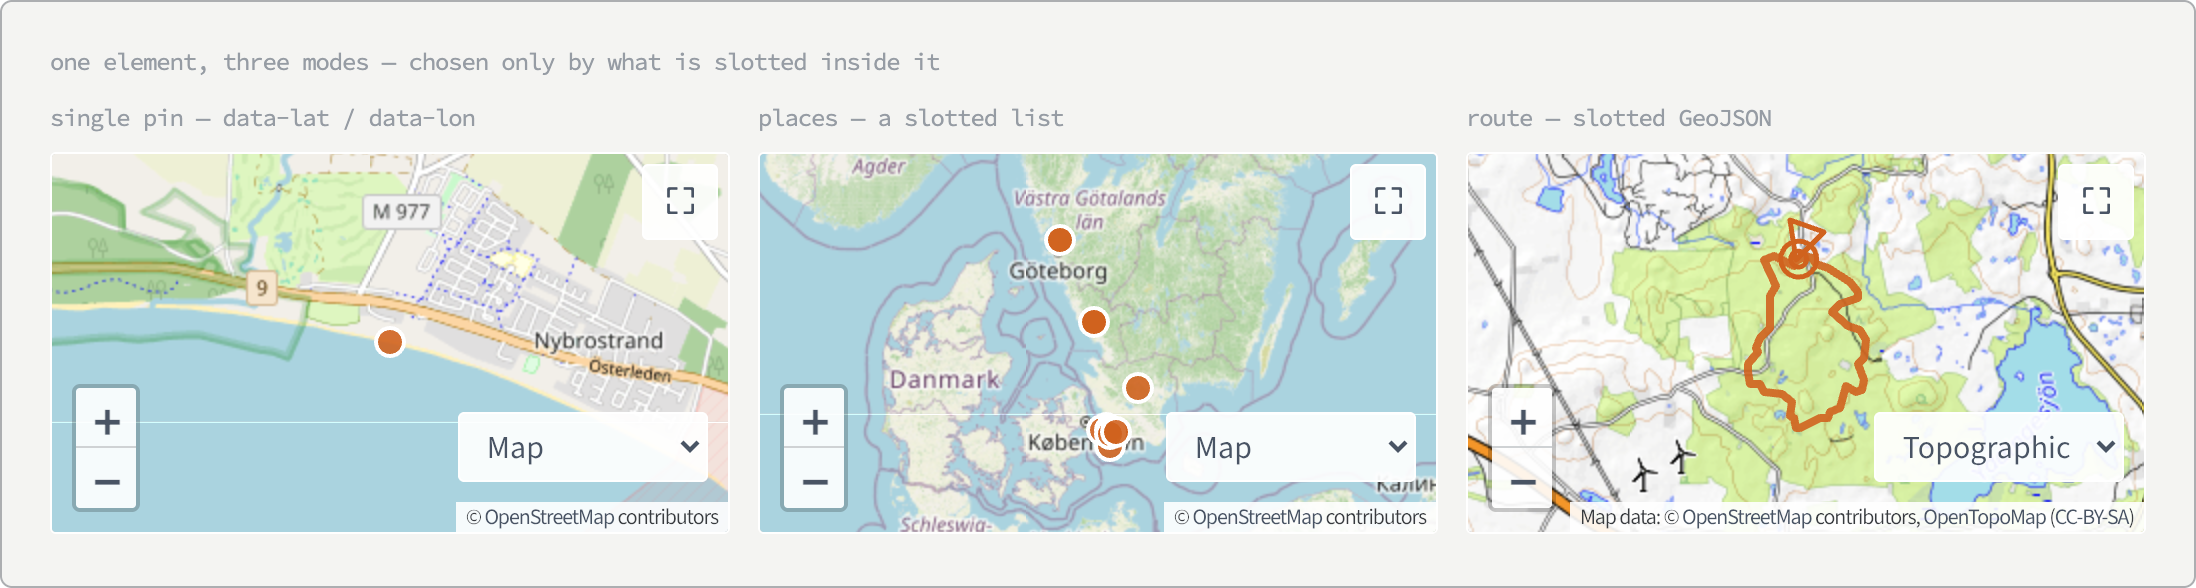
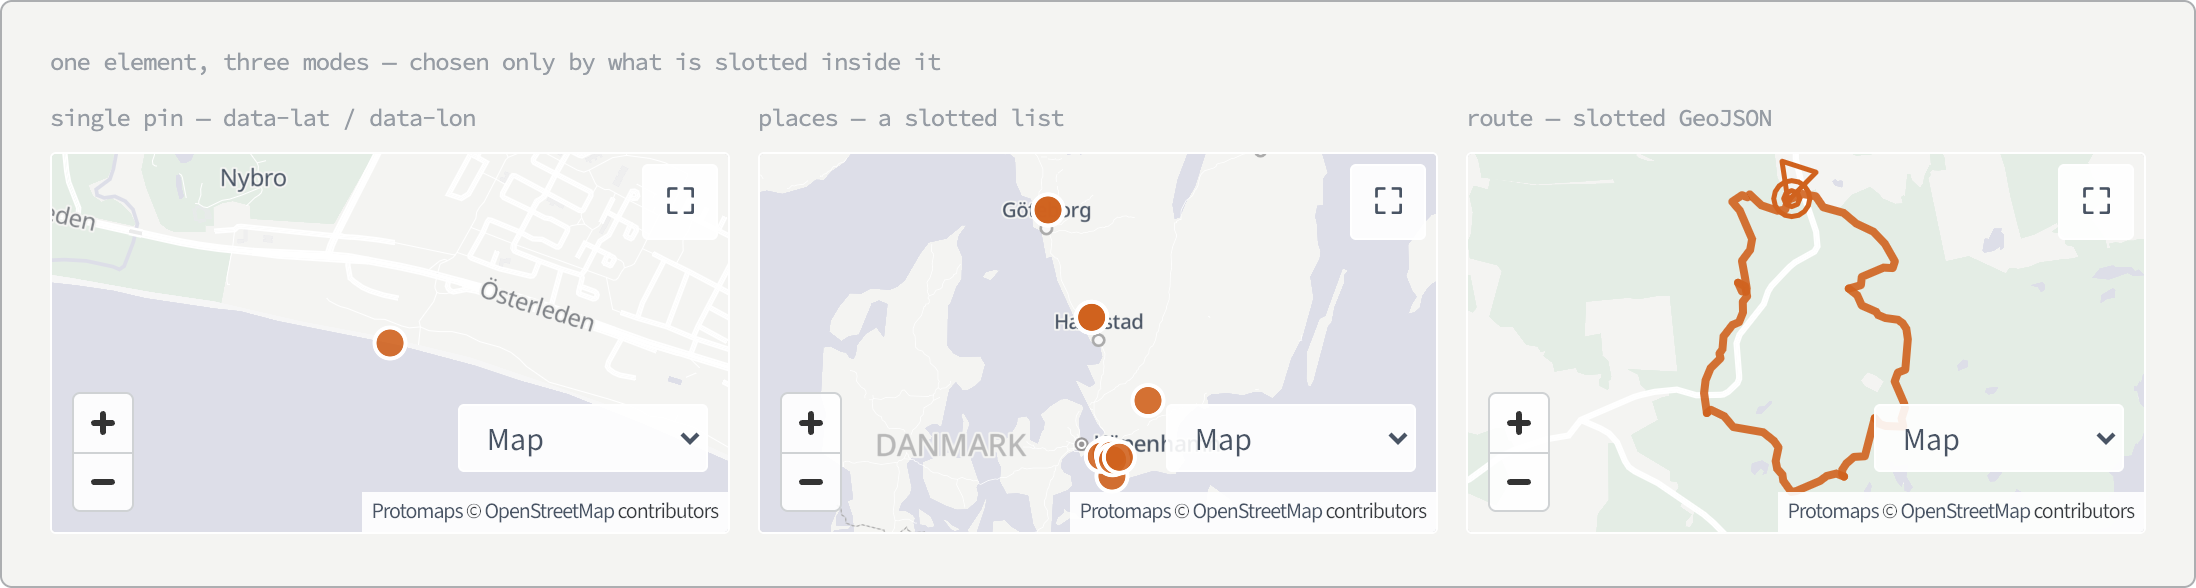
Wiki: the place map's two figures re-shot on MapLibre and our own tiles; mockups are served over http so MapLibre can load

diff --git a/src/wiki/_sources/place-map.html b/src/wiki/_sources/place-map.html
@@ -4,10 +4,10 @@
 <meta charset="utf-8">
 <title>The place map — wiki mockup</title>
 
-<!-- ⚠ Three build artifacts: the site bundle, the component's local bundle, and Leaflet's own stylesheet. Run `npm start` or a build once if any is missing. -->
+<!-- ⚠ Three build artifacts: the site bundle, the component's local bundle, and MapLibre's own stylesheet. Run `npm start` or a build once if any is missing. Shoot it with `npm run mockups`, which serves it over http. -->
 <link rel="stylesheet" href="../../_includes/css/global.css">
 <link rel="stylesheet" href="../../_includes/css/place-map.css">
-<link rel="stylesheet" href="../../../dist/assets/components/leaflet.css">
+<link rel="stylesheet" href="../../../dist/assets/components/maplibre-gl.css">
 
 <style>
   @font-face { font-family: 'Source Sans'; font-weight: 100 1000; src: url('../../assets/fonts/source-sans/source-sans.woff2') format('woff2'); }
@@ -81,27 +81,27 @@
 </div>
 
 <script>
-  // Leaflet fetches its tiles over the network and the route intro animates the line in, so the shooters must wait for both rather than race networkidle0.
+  // MapLibre fetches its tiles over the network, so the shooters must wait for them rather than race networkidle0.
   window.__mockupReady = false;
+  // Reports reduced motion to the component only, so the route is drawn at once instead of over a 7-second intro.
+  const realMatchMedia = window.matchMedia.bind(window);
+  window.matchMedia = q => (q.includes('prefers-reduced-motion') ? { ...realMatchMedia(q), matches: true } : realMatchMedia(q));
 </script>
-<!-- The real component, bundled with Leaflet by esbuild — this mockup renders the shipped element, not a drawing of it.
-     ⚠ No type="module": a FETCHED module script is blocked from file:// as a cross-origin request (origin null). The esbuild bundle is an IIFE with no imports, so a classic script loads it fine. -->
+<!-- The real component, bundled with MapLibre by esbuild — this mockup renders the shipped element, not a drawing of it. -->
 <script src="../../../dist/assets/scripts/components/place-map.js"></script>
 <script type="module">
   const wait = ms => new Promise(r => setTimeout(r, ms));
-  const settled = () => Promise.all(document.getAnimations().map(a => a.finished.catch(() => {})));
-
-  await wait(1800);
-  await settled();
+  const maps = [...document.querySelectorAll('place-map')];
+  // Each canvas drops data-map-loading once its first tiles are drawn.
+  while (maps.some(m => !m.mapObj || m.querySelector('[data-map-loading]'))) await wait(100);
 
   // Zooming is just operating the real map, the way a reader would — the symbols are geographic shapes, so they grow with it rather than staying a fixed screen size.
   const zoomed = document.querySelector('[data-zoom-to]');
   const [lat, lon, z] = zoomed.dataset.zoomTo.split(',').map(Number);
-  zoomed.mapObj.map.setView([lat, lon], z);
-
-  // A second settle: the new zoom level fetches a fresh set of tiles.
-  await wait(2500);
-  await settled();
+  const { map } = zoomed.mapObj;
+  const idle = new Promise(r => map.once('idle', r));
+  map.jumpTo({ center: [lon, lat], zoom: z });
+  await idle; // the new zoom level fetches a fresh set of tiles
   requestAnimationFrame(() => requestAnimationFrame(() => (window.__mockupReady = true)));
 </script>
 

diff --git a/src/wiki/_sources/shoot-mockups.js b/src/wiki/_sources/shoot-mockups.js
@@ -1,17 +1,21 @@
-// Shoots every [data-shot] element in this folder's mockups to src/assets/images/wiki/<data-shot>.png. Run: npm run mockups
+// Shoots every [data-shot] element in this folder's mockups to src/assets/images/wiki/<data-shot>.png. Run: npm run mockups (or `npm run mockups -- place-map` for the mockups whose filename contains that)
 import { fileURLToPath } from 'node:url';
 import { readdirSync } from 'node:fs';
 import path from 'node:path';
 import puppeteer from 'puppeteer';
+import { serveMockups, launchArgs } from './serve-mockups.js';
 
 const here = path.dirname(fileURLToPath(import.meta.url));
 const outputDir = path.resolve(here, '../../assets/images/wiki');
-const mockups = readdirSync(here).filter(f => f.endsWith('.html')).sort();
+const only = process.argv[2] || '';
+const mockups = readdirSync(here).filter(f => f.endsWith('.html') && f.includes(only)).sort();
+
+const { base, server } = await serveMockups(here);
 
 // puppeteer arrives transitively under pa11y-ci and hunts for its own pinned build — point it at an installed Chrome, same as meta.tests.pa11y.chromePath does.
 const chromePath = process.env.PA11Y_CHROME || '/Applications/Google Chrome.app/Contents/MacOS/Google Chrome';
 
-const browser = await puppeteer.launch({ executablePath: chromePath, headless: 'new' });
+const browser = await puppeteer.launch({ executablePath: chromePath, headless: 'new', args: launchArgs });
 const page = await browser.newPage();
 // ⚠ deviceScaleFactor 2 is load-bearing: a wiki page declares each shot at its full pixel size and lets CSS scale it down, so a 1x shot renders soft.
 await page.setViewport({ width: 1400, height: 1400, deviceScaleFactor: 2 });
@@ -19,9 +23,9 @@ await page.setViewport({ width: 1400, height: 1400, deviceScaleFactor: 2 });
 const sizes = [];
 
 for (const file of mockups) {
-  await page.goto(`file://${path.join(here, file)}`, { waitUntil: 'networkidle0' });
+  await page.goto(`${base}/${file}`, { waitUntil: 'networkidle0' });
   // A mockup that freezes an animation sets window.__mockupReady = false up front and true once it has settled; one that does not is ready as soon as it loads.
-  await page.waitForFunction(() => window.__mockupReady !== false, { timeout: 10000 });
+  await page.waitForFunction(() => window.__mockupReady !== false, { timeout: 30000 });
 
   // The mockup's own ground and drop shadows are dropped so each shot sits on the wiki page itself, in either theme.
   await page.evaluate(() => {
@@ -45,6 +49,7 @@ for (const file of mockups) {
 }
 
 await browser.close();
+server.close();
 console.log(`Wrote ${sizes.length} shots to ${outputDir}:`);
 sizes.forEach(s => console.log(`  ${s}`));
 console.log('⚠ Those are the intrinsic sizes — they must be the width/height on each <img>, or eleventy-img ships a soft image.');

diff --git a/src/wiki/_sources/check-mockups.js b/src/wiki/_sources/check-mockups.js
@@ -4,20 +4,22 @@ import { readdirSync } from 'node:fs';
 import { createHash } from 'node:crypto';
 import path from 'node:path';
 import puppeteer from 'puppeteer';
+import { serveMockups, launchArgs } from './serve-mockups.js';
 
 const here = path.dirname(fileURLToPath(import.meta.url));
 const chromePath = process.env.PA11Y_CHROME || '/Applications/Google Chrome.app/Contents/MacOS/Google Chrome';
 
-const browser = await puppeteer.launch({ executablePath: chromePath, headless: 'new' });
+const { base, server } = await serveMockups(here);
+const browser = await puppeteer.launch({ executablePath: chromePath, headless: 'new', args: launchArgs });
 const page = await browser.newPage();
 await page.setViewport({ width: 1400, height: 1400, deviceScaleFactor: 2 });
 
 let failures = 0;
 
 for (const file of readdirSync(here).filter(f => f.endsWith('.html')).sort()) {
-  await page.goto(`file://${path.join(here, file)}`, { waitUntil: 'networkidle0' });
+  await page.goto(`${base}/${file}`, { waitUntil: 'networkidle0' });
   // A mockup that freezes an animation sets window.__mockupReady = false up front and true once it has settled; one that does not is ready as soon as it loads.
-  await page.waitForFunction(() => window.__mockupReady !== false, { timeout: 10000 });
+  await page.waitForFunction(() => window.__mockupReady !== false, { timeout: 30000 });
 
   // ⚠ The pair is compared as PIXELS, not as text: the wrapping specimens differ in line breaks, but border width, a focus ring and a syntax color do not move a single word.
   // Every frame, not just the top document — a mockup that needs real viewport widths draws its sides in iframes, and their elements are unreachable from the top document.
@@ -41,6 +43,7 @@ for (const file of readdirSync(here).filter(f => f.endsWith('.html')).sort()) {
 }
 
 await browser.close();
+server.close();
 if (failures) {
   console.error(`\n${failures} comparison(s) render identically. Widen the sweep or change what varies — see the ⚠ on the wiki page.`);
   process.exit(1);

diff --git a/src/wiki/_sources/serve-mockups.js b/src/wiki/_sources/serve-mockups.js
@@ -1,0 +1,23 @@
+// Serves the mockups over http for both shooters. MapLibre builds absolute URLs from location.origin ("null" on file://), and the tile file needs a real origin. /assets/ maps to dist/ the way the site serves it.
+import { readFile } from 'node:fs';
+import { createServer } from 'node:http';
+import path from 'node:path';
+
+// ⚠ R2's CORS policy only admits johanedlund.se and localhost:8080, so the random port needs web security off to read the tile file.
+export const launchArgs = ['--disable-web-security', '--enable-unsafe-swiftshader'];
+
+const types = { '.html': 'text/html', '.css': 'text/css', '.js': 'text/javascript', '.json': 'application/json', '.png': 'image/png', '.svg': 'image/svg+xml', '.woff2': 'font/woff2', '.pbf': 'application/x-protobuf' };
+
+export async function serveMockups(here) {
+  const root = path.resolve(here, '../../..');
+  const server = createServer((req, res) => {
+    const url = decodeURIComponent(req.url.split('?')[0]);
+    const file = path.join(root, url.startsWith('/assets/') ? 'dist' : '', url);
+    readFile(file, (err, data) => {
+      res.writeHead(err ? 404 : 200, { 'content-type': types[path.extname(file)] || 'application/octet-stream' });
+      res.end(data);
+    });
+  });
+  await new Promise(r => server.listen(0, '127.0.0.1', r));
+  return { server, base: `http://127.0.0.1:${server.address().port}/${path.relative(root, here)}` };
+}

diff --git a/src/wiki/The place map.md b/src/wiki/The place map.md
@@ -30,8 +30,8 @@ else this.initSinglePin();
 - **Route** (activity pages) — a slotted `<script type="application/json" data-route>` holding a GeoJSON `LineString`. This is the newest mode and the rest of this page is about it.
 
 <figure class="feature" data-wiki-mockup>
-  <img eleventy:formats="webp,png" src="/assets/images/wiki/place-map-modes.png" alt="Three maps side by side. The first has a single orange dot on a coastal town. The second is zoomed out over southern Scandinavia with a scatter of orange dots. The third is a forest map carrying an orange route line with its start triangle and finish circles." width="2196" height="588">
-  <figcaption>The same element three times, told apart only by what is slotted inside it. ⚠ Captured with the old Leaflet map and OpenStreetMap tiles, before the move to jedee's own tiles.</figcaption>
+  <img eleventy:formats="webp,png" src="/assets/images/wiki/place-map-modes.png" alt="Three maps side by side. The first has a single orange dot on a coastal town. The second is zoomed out over the Swedish west coast and Denmark with a scatter of orange dots. The third is a pale green forest map carrying an orange route line with its start triangle and finish circles." width="2196" height="588">
+  <figcaption>The same element three times, told apart only by what is slotted inside it.</figcaption>
 </figure>
 
 ### A recorded route as the third mode
@@ -71,11 +71,11 @@ The start and finish are the standard **orienteering course symbols** — a tria
 The start triangle's apex is pinned exactly on the first point and the body trails back along the reverse of the travel direction. ⚠ The heading is measured to the first track point **at least ~25 m out**, not the next GPS fix — the opening fixes cluster on the spot and a two-point bearing there is pure noise, so the triangle would point a random way. The shapes are hollow and share the line's color, the site's accent orange. Orienteering overprint is purple, and a purple was tried — but the line has to read over several different tile sets, and it vanished on some of them; the accent orange reads on all of them. There's deliberately **no halo**. None are interactive, since the map isn't the screen-reader path here.
 
 <figure class="popout" data-wiki-mockup>
-  <img eleventy:formats="webp,png" src="/assets/images/wiki/place-map-route-symbols.png" alt="A topographic map of forest with an orange route line running through it. Where the line begins, a hollow orange triangle with its apex on the track and its body trailing back; a few metres away, two hollow concentric orange circles marking the finish." width="1500" height="946">
-  <figcaption>The two orienteering symbols, zoomed in — the start and finish are about 25 metres apart on this course. Both are geographic shapes, so zooming grew them along with the line rather than leaving them at a fixed screen size. ⚠ Captured with the old Leaflet map.</figcaption>
+  <img eleventy:formats="webp,png" src="/assets/images/wiki/place-map-route-symbols.png" alt="A pale green map of park paths with an orange route line running through it. Where the line begins, a hollow orange triangle with its apex on the track and its body trailing back; a few metres away, two hollow concentric orange circles marking the finish." width="1500" height="946">
+  <figcaption>The two orienteering symbols, zoomed in — the start and finish are about 25 metres apart on this course. Both are geographic shapes, so zooming grew them along with the line rather than leaving them at a fixed screen size.</figcaption>
 </figure>
 
-On first paint a short intro sequences the pieces: the canvas fades up, the start triangle fades in, the line draws itself start-to-finish, and the finish is revealed only once the line reaches it — all gated behind `prefers-reduced-motion`, so reduced-motion visitors just get the finished map. A canvas map has no SVG path to animate with `stroke-dashoffset`, so the draw is a **`line-gradient`** (which needs `lineMetrics: true` on the source): a `step` at the drawn fraction of the line, solid before it and transparent after, moved forward every animation frame. ⚠ A theme flip mid-draw rebuilds the style, and `setPaintProperty` throws "Style is not done loading" until it's back — the loop skips those frames, and keeps the progress in component state so the rebuilt style carries it.
+On first paint a short intro sequences the pieces: while the tiles load the empty box pulses softly, and once MapLibre first reports `idle` the canvas fades up (`[data-map-loading]` in `place-map.css`), then the start triangle fades in, the line draws itself start-to-finish, and the finish is revealed only once the line reaches it — all gated behind `prefers-reduced-motion`, so reduced-motion visitors just get the finished map. A canvas map has no SVG path to animate with `stroke-dashoffset`, so the draw is a **`line-gradient`** (which needs `lineMetrics: true` on the source): a `step` at the drawn fraction of the line, solid before it and transparent after, moved forward every animation frame. ⚠ A theme flip mid-draw rebuilds the style, and `setPaintProperty` throws "Style is not done loading" until it's back — the loop skips those frames, and keeps the progress in component state so the rebuilt style carries it.
 
 The no-JS answer for a route is the honest one: no map, but the stats and the **"View on Strava"** link below carry the route. A blank or broken map is never shown — malformed JSON or too few points also just leaves the page mapless with the Strava link standing. Route lines live on the [[The activities archive|activities archive]] pages; that page's overview map is the *groups* mode of this same component.
 

diff --git a/src/wiki/_log.md b/src/wiki/_log.md
@@ -5,6 +5,10 @@ date: 2026-07-31
 
 Append-only. One entry per ingest / query-filed / lint, newest first. Entry format: `## [YYYY-MM-DD] ingest | Title` so `grep "^## \[" _log.md | head -5` lists the latest five.
 
+## [2026-09-17] enrich | The place map (figures)
+
+Both figures re-shot on MapLibre and the R2 tile file, the two "captured with the old Leaflet map" warnings removed, the route-symbols alt text updated, and the intro paragraph now names the loading pulse and fade (`[data-map-loading]`). ⚠ The mockups are now served over http by `src/wiki/_sources/serve-mockups.js`, not opened as `file://`: MapLibre builds absolute URLs from `location.origin`, which is `"null"` on `file://`, and R2's CORS policy has no entry for the shooter's random port, so Chrome runs with web security off. The place-map mockup reports reduced motion to the component so the route is drawn at once. `npm run mockups -- <name>` now shoots only the mockups whose filename contains the name. `mockups:check` passes on every mockup over http.
+
 ## [2026-09-17] enrich | The place map
 
 The component moved from Leaflet + OpenStreetMap tiles to MapLibre + jedee's own Protomaps tiles of Sweden. New sections *Our own tiles* (colors as CSS custom properties, the color-probe trap, the canvas-not-element trap, coverage fallback, style diffing, paused animation frames in hidden tabs) and a rewritten base-layer switch; the route intro is now a `line-gradient` sweep. The two figures are flagged as pre-move captures.
